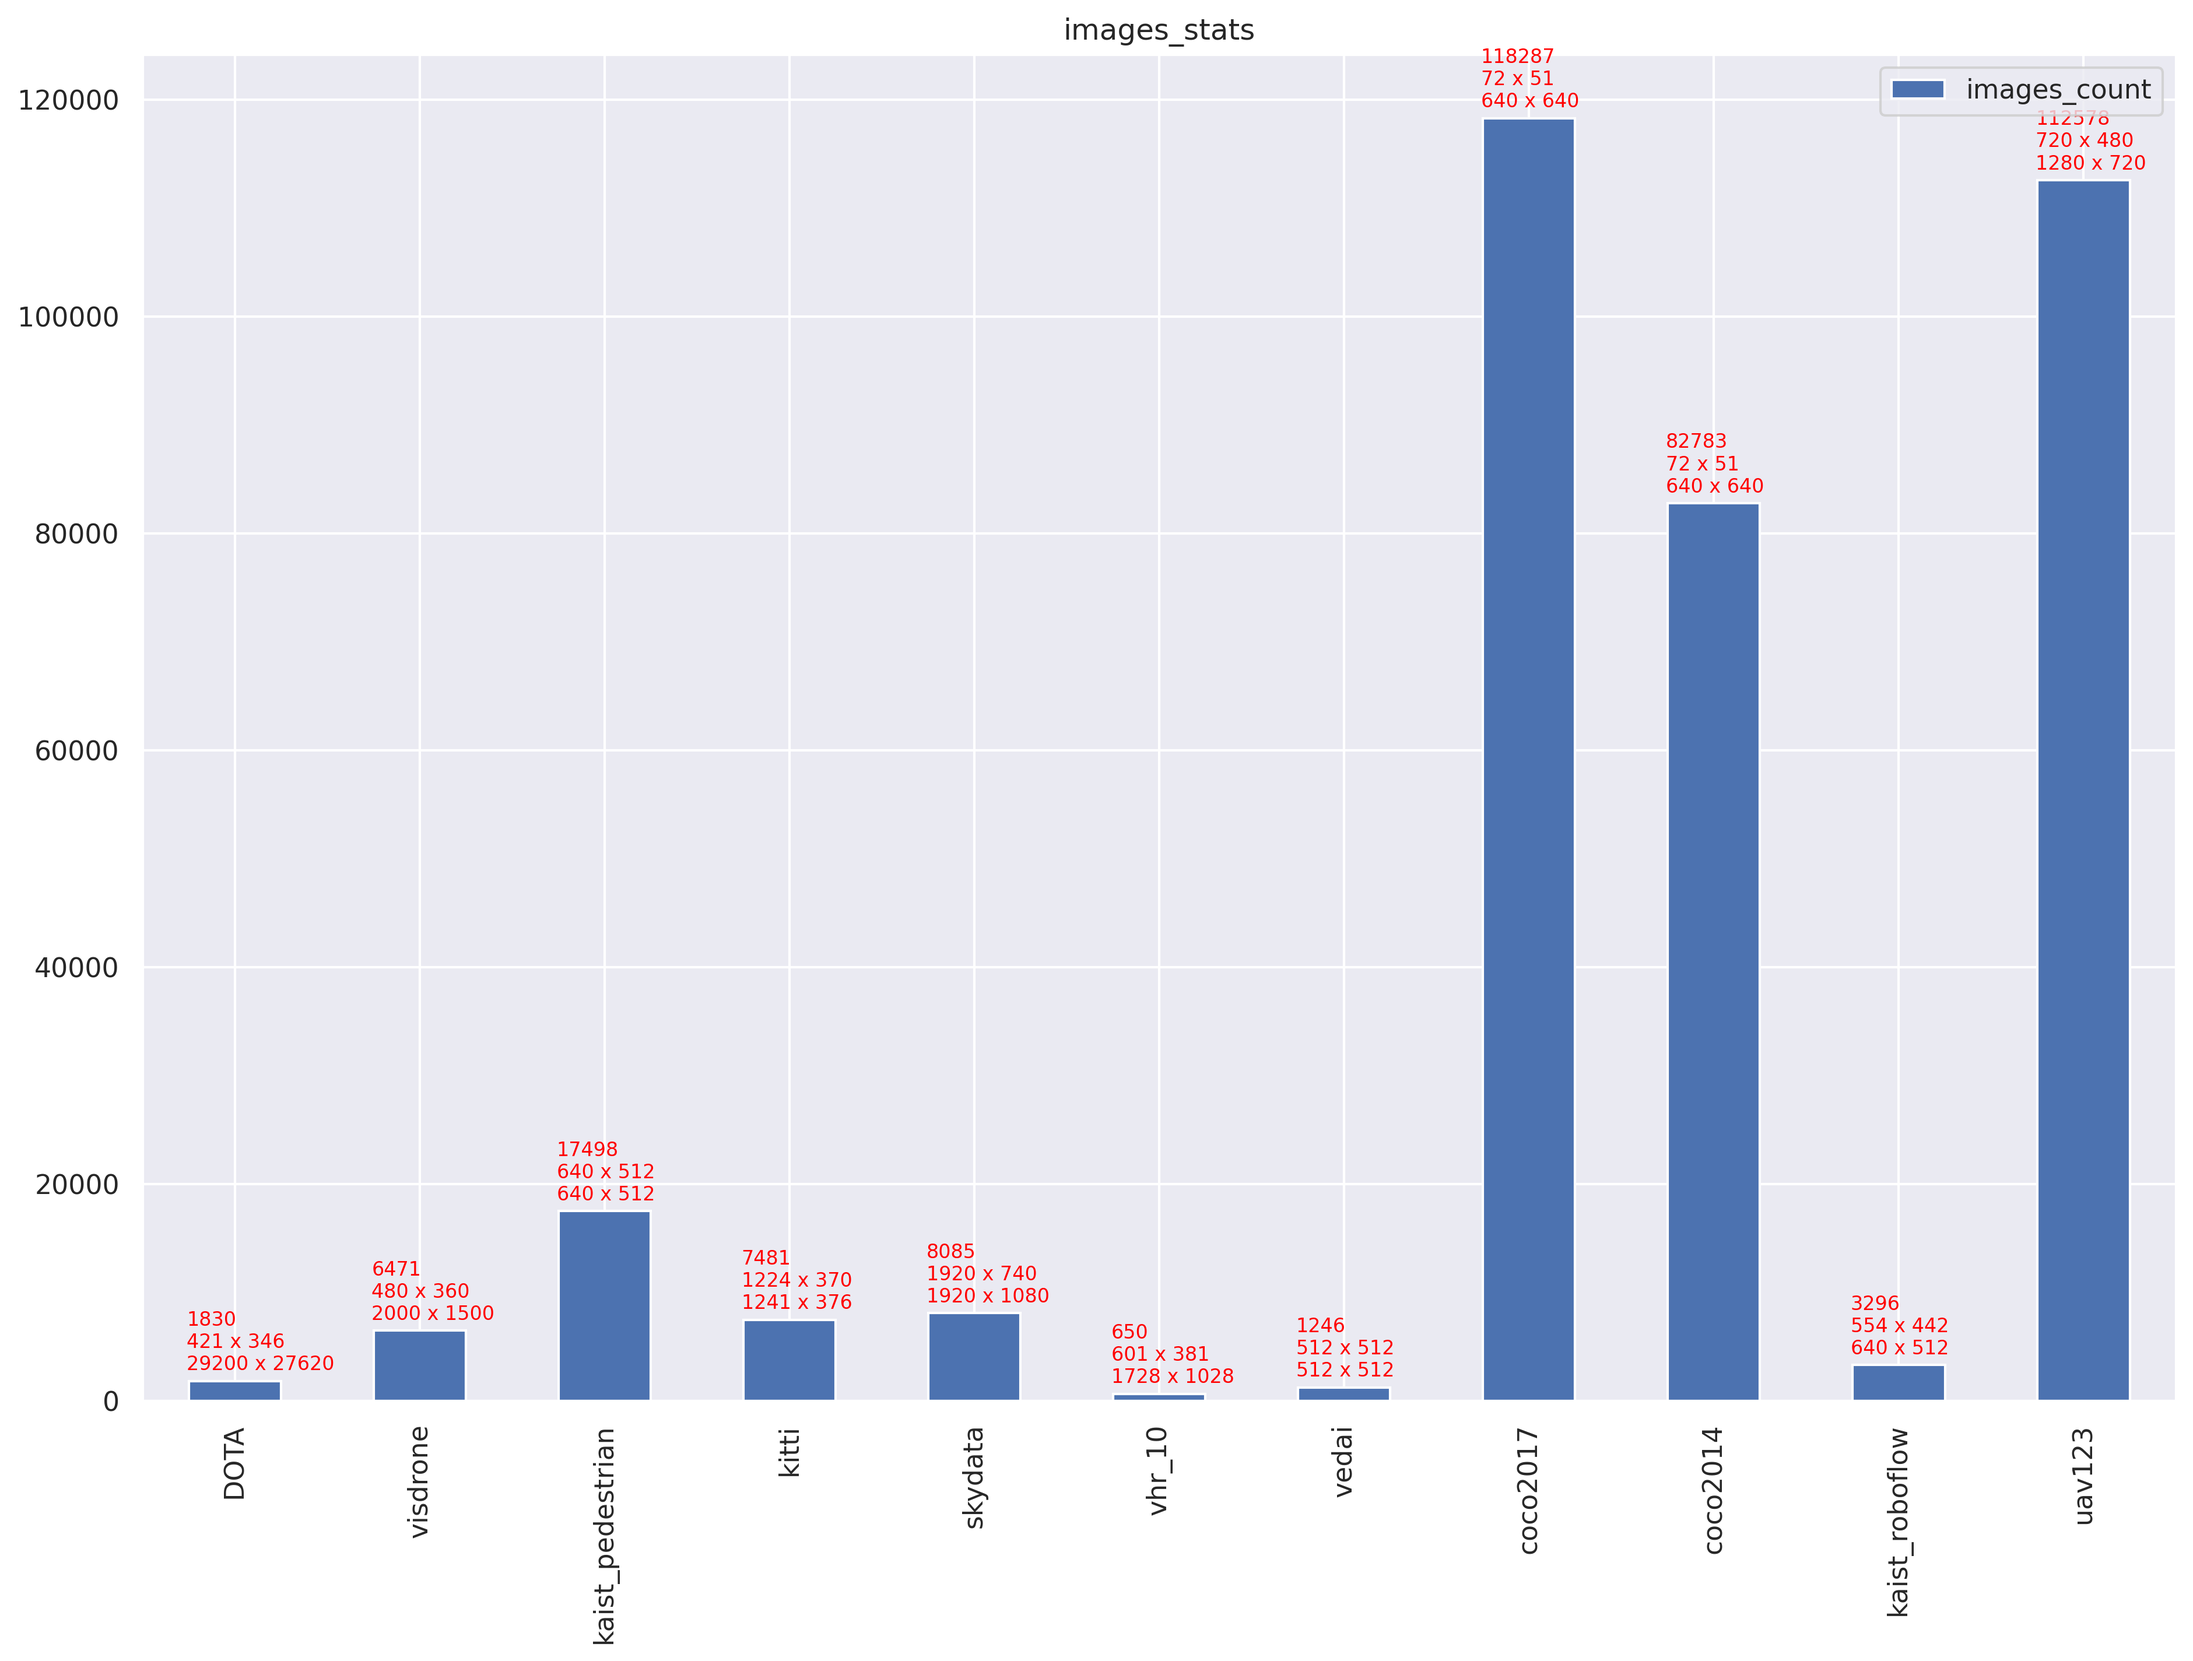
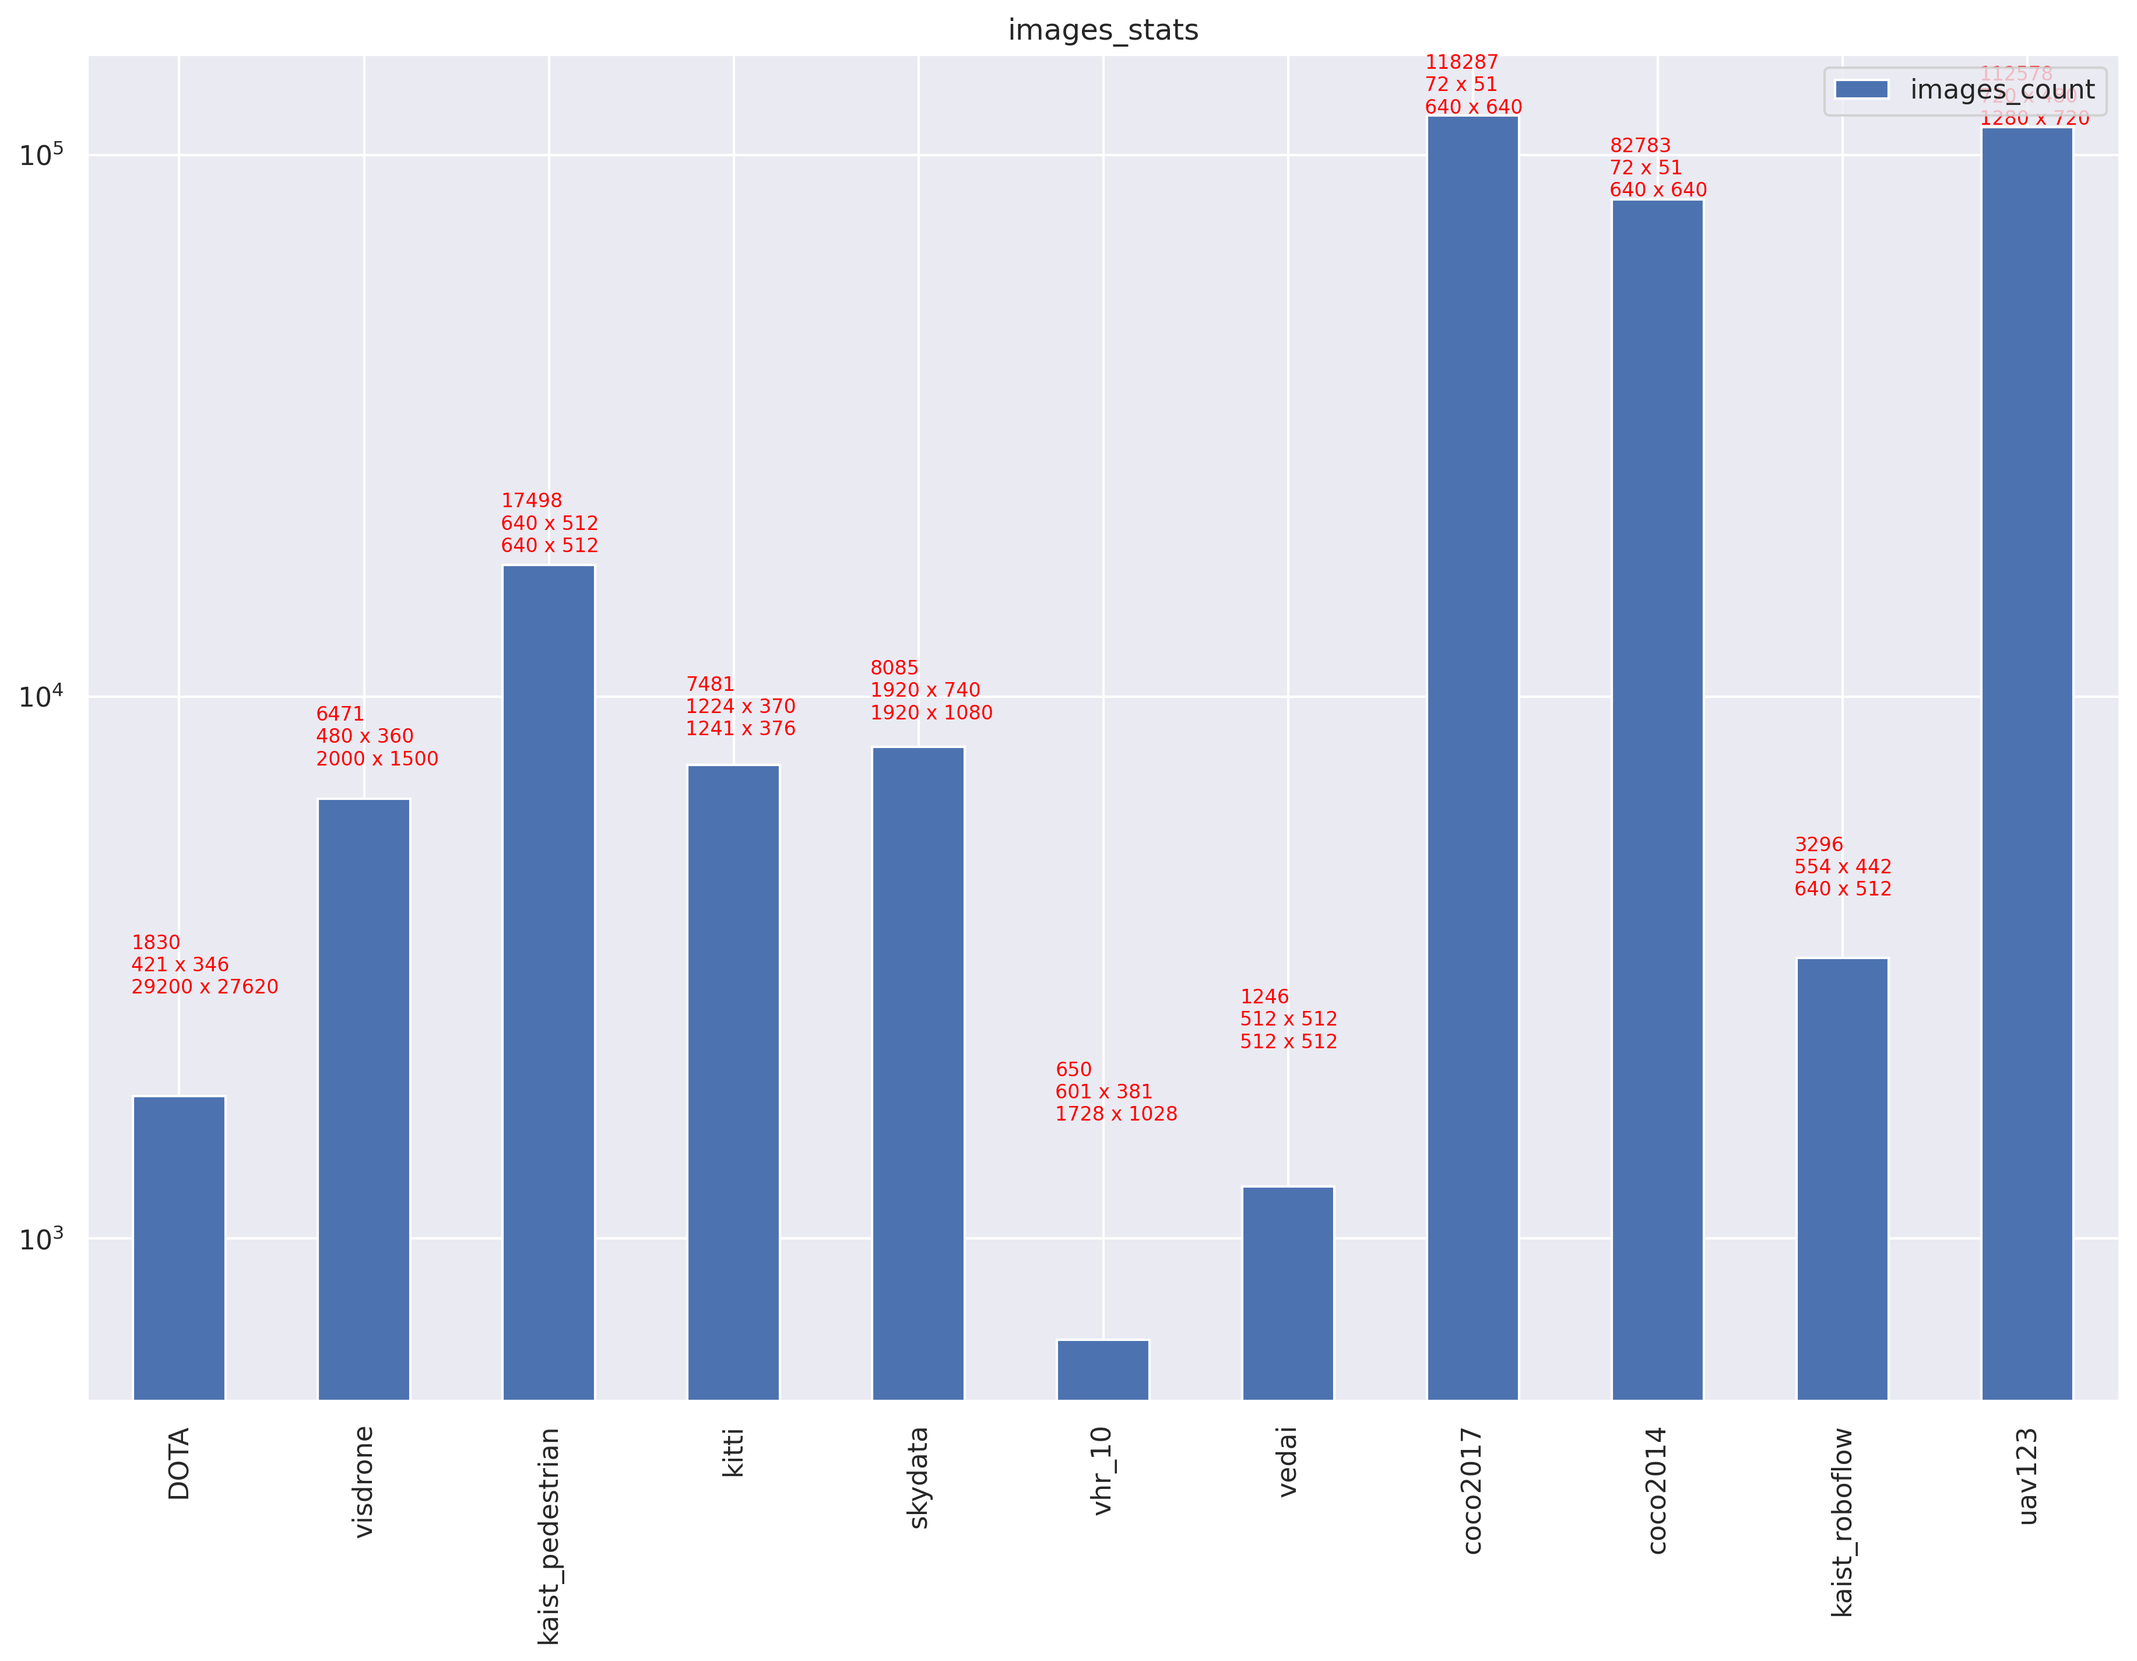
v

diff --git a/utils/stats_tools.py b/utils/stats_tools.py
@@ -214,7 +214,7 @@ def summarize_global_images_plot_and_save(global_summary_images_stats,
                         color='red',
                         size=8,
                         )
-    # plt.yscale('log')
+    plt.yscale('log')
     plt.savefig(str(save_path/f'{file_name}.png'), dpi=300, bbox_inches='tight')
     plt.close()
 
